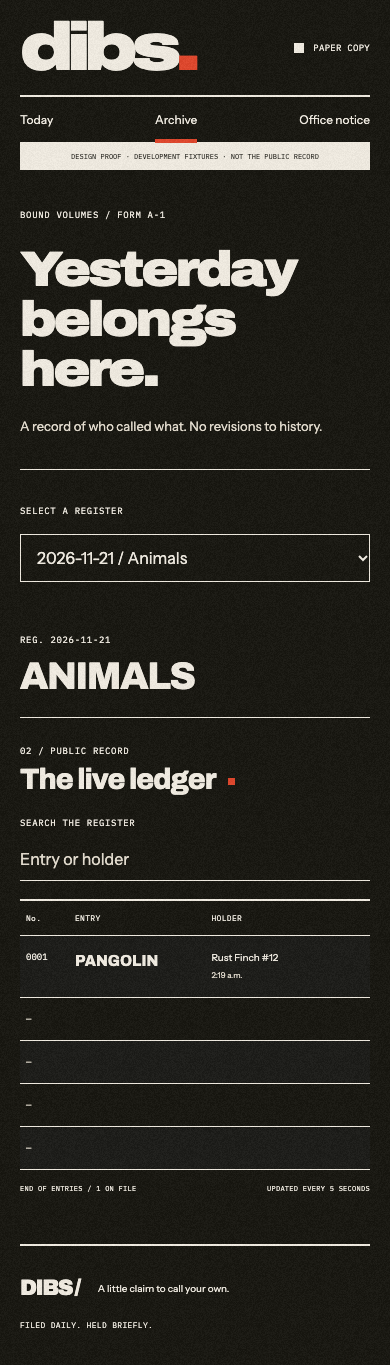
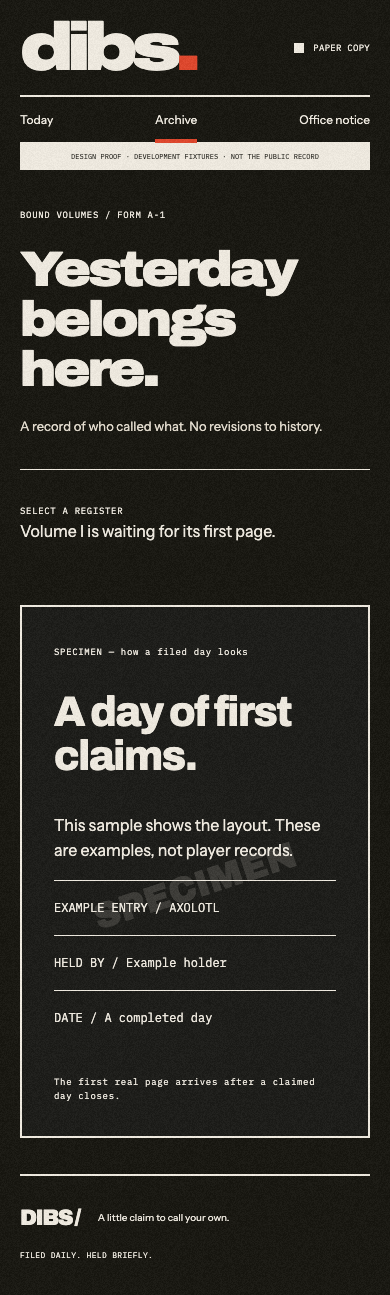
R2: welcome early claims and label the empty archive specimen

diff --git a/src/App.tsx b/src/App.tsx
@@ -536,7 +536,7 @@ function Home({
 
               </div>
       </section>}
-      <Ledger category={today.category} />
+      <Ledger category={today.category} open={today.open} />
       <div className="bottom-note">
         <span className="eyebrow">A NOTE FROM THE CLERK</span>
         <p>All claims are real. All ownership is entirely ceremonial.</p>
@@ -606,7 +606,7 @@ function Streak({ me }: { me: Me }) {
     </div>
   );
 }
-function Ledger({ category }: { category: Category | null }) {
+function Ledger({ category, open }: { category: Category | null; open?: number }) {
   const [rows, setRows] = useState<Claim[]>([]);
   const [query, setQuery] = useState('');
   const [error, setError] = useState('');
@@ -656,7 +656,7 @@ function Ledger({ category }: { category: Category | null }) {
         <div>
           <span className="section-number">02 / PUBLIC RECORD</span>
           <h2>
-            The live ledger
+            {rows.length < 10 ? 'First filings' : 'The live ledger'}
             <span className="live-mark" aria-hidden="true" />
           </h2>
         </div>
@@ -672,7 +672,8 @@ function Ledger({ category }: { category: Category | null }) {
         </label>
       </div>
       {error && <p role="status">{error}</p>}
-      <table className="ledger">
+      {category && open !== undefined && rows.length < 10 && <p className="open-pool">{open.toLocaleString()} {category.name.toLowerCase()} still unclaimed. Be early.</p>}
+      <table className={"ledger " + (rows.length < 10 ? 'first-filings' : '')}>
         <caption className="sr-only">Claims in {category?.name || 'today’s registry'}</caption>
         <thead>
           <tr>
@@ -698,7 +699,7 @@ function Ledger({ category }: { category: Category | null }) {
               <td className="time-col">{time(r.created_at)}</td>
             </tr>
           ))}
-          {!filtered.length && (
+          {!filtered.length && (query || !category) && (
             <tr className="empty-row">
               <td colSpan={4}>
                 {query
@@ -709,12 +710,9 @@ function Ledger({ category }: { category: Category | null }) {
               </td>
             </tr>
           )}
-          {Array.from({ length: Math.max(0, 5 - filtered.length) }, (_, i) => (
-            <tr className="ruled-row" key={'blank' + i} aria-hidden="true">
-              <td>—</td>
-              <td />
-              <td />
-              <td className="time-col" />
+          {!query && category && rows.length < 10 && Array.from({ length: Math.min(3, 10 - rows.length) }, (_, i) => (
+            <tr className="open-filing" key={'blank' + i}>
+              <td colSpan={4}>No. {serial(Math.max(0, ...rows.map(r => r.claim_no)) + i + 1)} — open</td>
             </tr>
           ))}
         </tbody>
@@ -941,7 +939,16 @@ function Archive() {
               <h2>{selected.name}</h2>
             </div>
           )}
-          <Ledger category={selected} />
+          {selected ? <Ledger category={selected} /> : !error && <section className="archive-specimen" aria-label="Specimen example, not a real record">
+            <span className="eyebrow">SPECIMEN — how a filed day looks</span>
+            <h2>A day of first claims.</h2>
+            <p>This sample shows the layout. These are examples, not player records.</p>
+            <div className="specimen-watermark" aria-hidden="true">SPECIMEN</div>
+            <div className="specimen-line">EXAMPLE ENTRY / AXOLOTL</div>
+            <div className="specimen-line">HELD BY / Example holder</div>
+            <div className="specimen-line">DATE / A completed day</div>
+            <p className="eyebrow">The first real page arrives after a claimed day closes.</p>
+          </section>}
         </div>
       </div>
     </>

diff --git a/src/style.css b/src/style.css
@@ -1821,3 +1821,12 @@ html.low-power .claim-imprint strong {
   .home-page .claim-paper { padding: 16px; }
   .home-page .identity-section { margin-top: max(70px, calc(844px - 640px)); }
 }
+.open-pool { font-size: 26px; font-weight: 600; max-width: 600px; line-height: 1.2; }
+.first-filings { border: 1px solid var(--ink); }
+.first-filings .open-filing td { height: 44px; font: 12px Plex, monospace; color: var(--muted); }
+.archive-specimen { position: relative; overflow: hidden; border: 2px solid var(--ink); padding: 32px; background: var(--panel); }
+.archive-specimen h2 { margin-top: 30px; font-size: 42px; }
+.archive-specimen p { max-width: 380px; }
+.specimen-line { padding: 18px 0; border-top: 1px solid var(--ink); font: 12px/1.5 Plex, monospace; }
+.specimen-watermark { position: absolute; top: 49%; left: 0; width: 100%; text-align: center; transform: rotate(-18deg); font: 900 clamp(36px, 7vw, 100px) Archivo; color: var(--ink); opacity: .15; pointer-events: none; }
+.archive-specimen > .eyebrow:last-child { margin: 30px 0 0; }

diff --git a/worker/index.ts b/worker/index.ts
@@ -376,7 +376,7 @@ export async function route(req: Request, env: Env): Promise<Response> {
   }
   if (path === '/archive') {
     const rows = await env.DB.prepare(
-      "SELECT id,date,name,slug,total_registrable,drop_at FROM categories WHERE date<=? AND status='approved' AND drop_at<=? ORDER BY date DESC",
+      "SELECT id,date,name,slug,total_registrable,drop_at FROM categories g WHERE date<? AND status='approved' AND drop_at<=? AND EXISTS(SELECT 1 FROM claims c WHERE c.category_id=g.id AND c.voided=0) ORDER BY date DESC",
     )
       .bind(registryDate(), new Date().toISOString())
       .all();

diff --git a/dev/fixture.ts b/dev/fixture.ts
@@ -77,7 +77,7 @@ export async function request(path: string, body?: any): Promise<any> {
       ),
     };
   if (path.startsWith('/ledger')) return { rows: claims };
-  if (path === '/archive') return { categories: [category] };
+  if (path === '/archive') return { categories: [] };
   if (path.startsWith('/certificate/'))
     return { claim: claims.find((c) => c.id === path.split('/').pop()) || mine };
   if (path === '/claim') {
